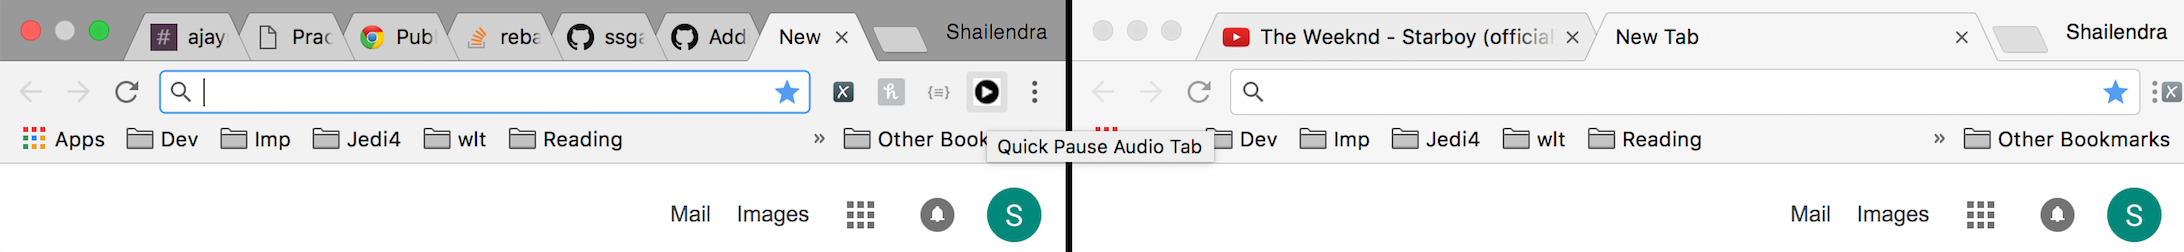
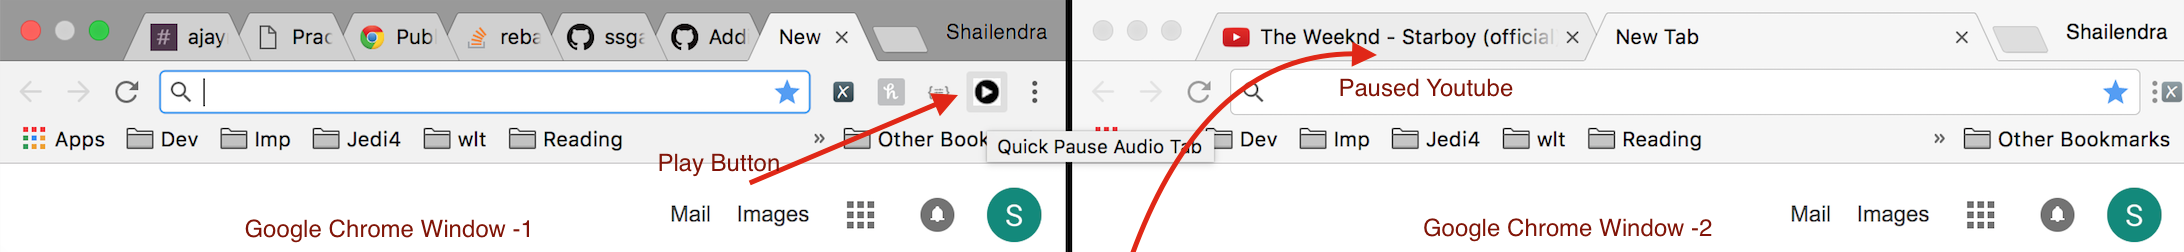
update readme

diff --git a/README.md b/README.md
@@ -7,13 +7,17 @@ Example: You have opened 20 chrome tabs. You Reading some code or article which 
 
 # Demo
 
-  - Import a HTML file and watch it magically convert to Markdown
+  - Youtube is palying song in some other window, Can be paused by using Pause Button of PauseTabSound button
     ![Playing Youtube Tab](/res/playing.png?raw=true "Playing Youtube Tab")
-  - Drag and drop images (requires your Dropbox account be linked)
+  - Youtube is paused now other window, Can be plyaed again by using Play Button of PauseTabSound button
    ![Pause Youtube Tab](/res/paused.png?raw=true "Paused Youtube Tab")
 
 
-You can also:
-  - Import and save files from GitHub, Dropbox, Google Drive and One Drive
-  - Drag and drop markdown and HTML files into Dillinger
-  - Export documents as Markdown, HTML and PDF
+Step to install
+  - Download Zip file from this Github Repo.
+  - Unzip the file somewhere in Computer. 
+  - Open Google Chrome
+  - Open New Blank Tab in Chrome
+  - Copy "chrome://extensions/" IN URL bar and Hit Enter
+  - Click the Button "Load Unpacked Extensions..." and navigate to the folder of second Step. 
+  - If you want to use this extension in Incognito Windows also, Check "Allow In Incognito" 
